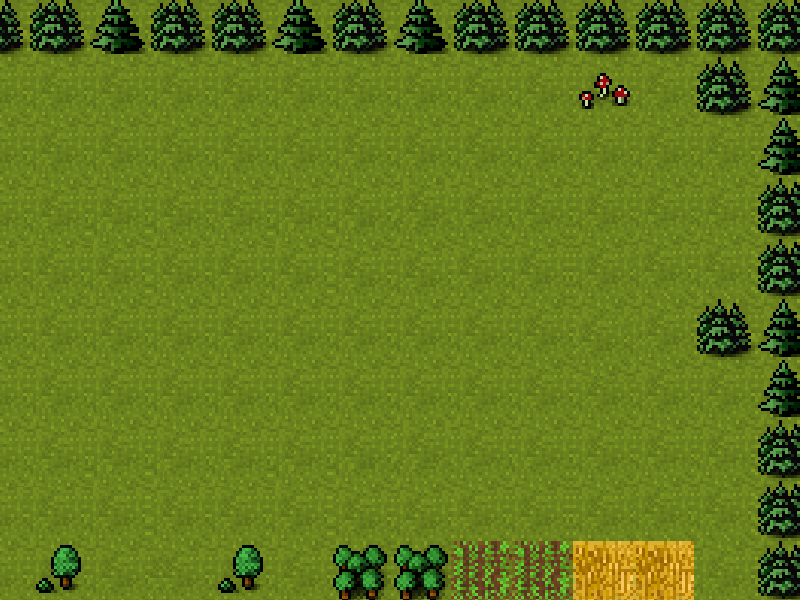
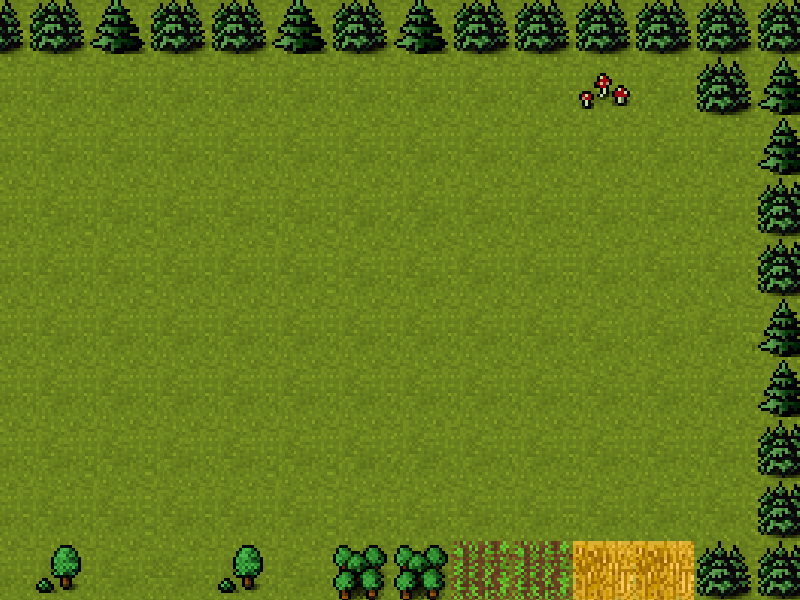
trésor aligné et arbre déplacé

Changed region(s): [[0.875, 0.9, 0.9375, 1.0], [0.8438, 0.51, 0.9375, 0.6]]

diff --git a/js/main.js b/js/main.js
@@ -37,7 +37,7 @@ function create() {
     this.add.image(400, 300, 'background');
     joueur = this.physics.add.image(20, 300, 'player');
     joueur.setScale(0.7);
-    this.add.image(725, 145, 'tresor').setScale(0.7);
+    this.add.image(725, 300, 'tresor').setScale(0.7);
     dragon = this.add.image(500, 120, 'dragon').setScale(0.7);
     dragon.flipX = true;
 
